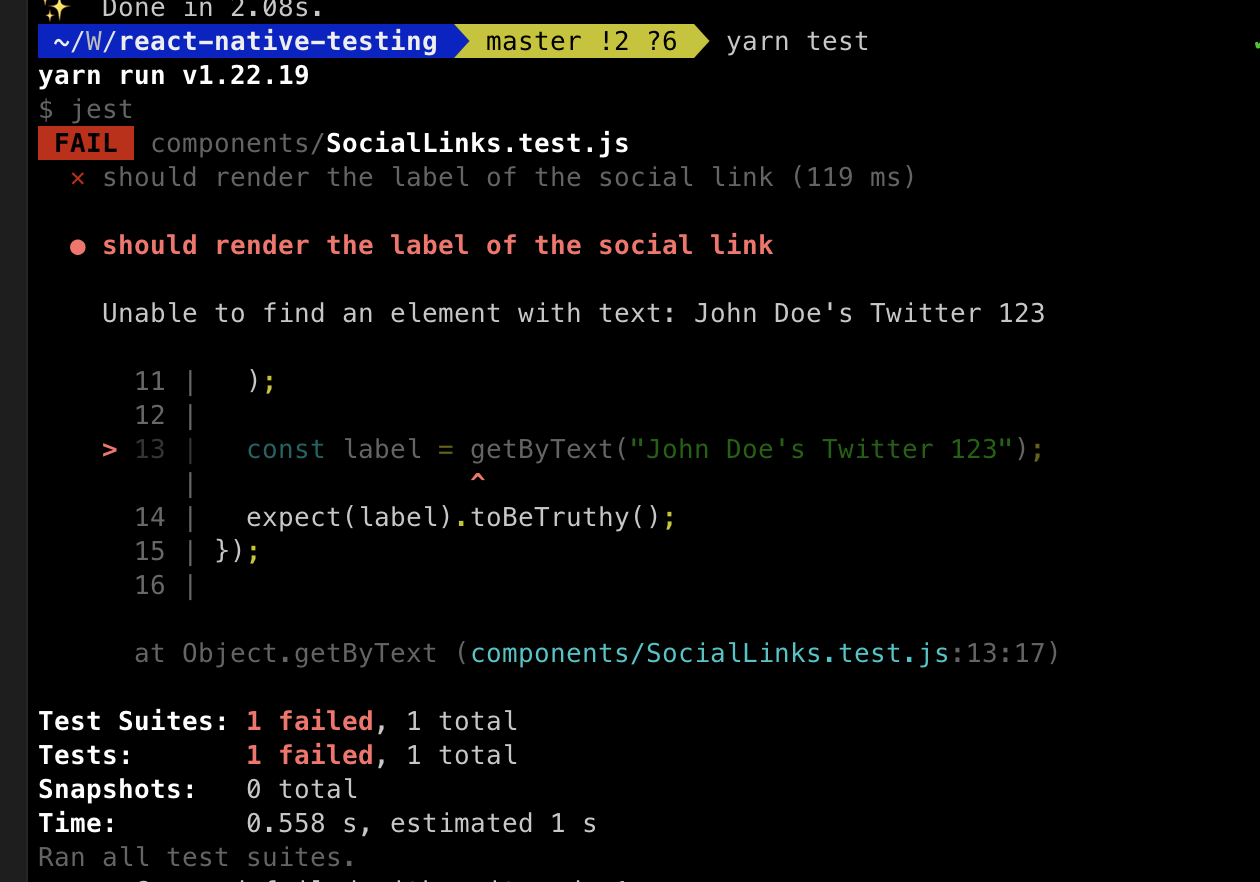
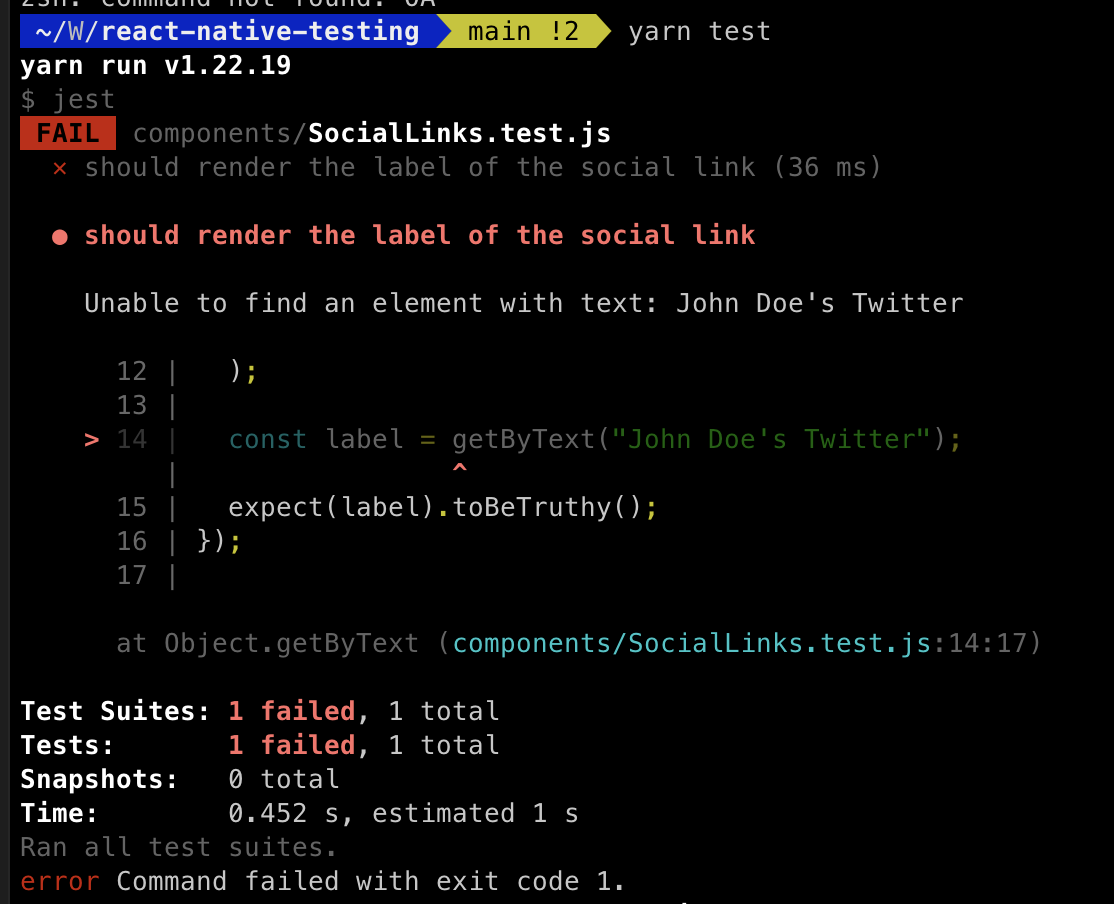
worked on the feedbacks

diff --git a/content/posts/2023-01-16-react-native-testing/index.md b/content/posts/2023-01-16-react-native-testing/index.md
@@ -23,13 +23,7 @@ Testing is an important part of any software development process. It helps you t
 
 ## Setting up the project
 
-As always we will try learning by real life example. So let's create a simple React Native app and then we will add testing to it. We will use expo to create our app. If you don't have expo installed on your machine, you can install it by running the following command:
-
-```bash
-npm install -g expo-cli
-```
-
-Now we can create our app by running the following command:
+As always we will try learning by real life example. So let's create a simple React Native app and then we will add testing to it. We will use expo to create our app.
 
 ```bash
 npx create-expo-app react-native-testing
@@ -54,14 +48,13 @@ We will be using React Native Testing Library to test our React Native app. This
 
 React Native Testing Library (RNTL) requires some other libraries to work. If you don't have them installed, you will get errors. So we will first install the required ones. We need to install the following libraries:
 
-1. react-test-renderer &
+1. react-test-renderer
 2. jest
 
 Run the following commands to install these libraries:
 
 ```bash
-npm install --save-dev react-test-renderer
-npm install --save-dev jest
+npm install --save-dev react-test-renderer jest
 ```
 
 Once those libraries are integrated, we can install React Native Testing Library by running the following command:
@@ -70,7 +63,7 @@ Once those libraries are integrated, we can install React Native Testing Library
 npm install --save-dev @testing-library/react-native
 ```
 
-Next, in order to use addtional React Native-specific jest matchers, we will need `@testing-library/jest-native package`.
+Next, in order to use addtional React Native-specific jest matchers, we will need `@testing-library/jest-native` package.
 
 ```bash
 npm install --save-dev @testing-library/jest-native
@@ -85,7 +78,7 @@ module.exports = {
 };
 ```
 
-Now question is, how do we even run the test in our app? We need to add a script to our `package.json` file. Let's add the following code to the `scripts` section of our `package.json` file:
+Now the question is, how do we even run the test in our app? We need to add a script to our `package.json` file. Let's add the following code to the `scripts` section of our `package.json` file:
 
 ```json
 "scripts": {
@@ -171,7 +164,7 @@ const styles = StyleSheet.create({
 export default Profile;
 ```
 
-and in the `components` folder, Add `SocialLinks.js` and the following code to it:
+Now in the `components` folder, Add `SocialLinks.js` and the following code to it:
 
 ```js
 import React from 'react';
@@ -225,17 +218,18 @@ const styles = StyleSheet.create({
 export default SocialLinks;
 ```
 
+You also need the assets in the `assets` folder. You will be able to get the asssets from this [repo](https://github.com/notJust-dev/react-native-testing)
+
 You should be able to see the following screen in your app now:
 
 ![react-native-testing-preview.png](./images/preview.png)
 
-## Writing the first test
+## Test if the social links' labels are rendered properly
 
 The component that we will be testing is the `<SocialLinks />`.It's always best to plan out the test. As a rule of the best practices, we should test the cases that our users see and interact. Let's dissect our `SocialLinks` component and see what are the cases that our users will see.
 
 1. The user will see the label of the social link.
 2. The user will see the icon of the social link.
-3. The user will see the social link is clickable.
 
 Also what will be some of the interactions / behaviors that our users will do with the component?
 
@@ -283,28 +277,28 @@ You will see the following output:
 
 ![react-native-testing-test-1.png](./images/test-1-pass.png)
 
-It's so satisfying to see the test pass with a green tick. Isn't it? ;) However, it's always a good idea to fail the test as well to see if the test is working or not. Let's change the label of the social link to something else and run the test again. We will see the following output:
+It's so satisfying to see the test pass with a green tick. Isn't it? ;) However, it's always a good idea to fail the test as well to see if the test is working or not. However, let's say a new developer came in and he hardcoded the label as "Twitter" in the component. Let's see what will happen if we run the test again:
 
 ```js
 test('should render the label of the social link', () => {
   const { getByText } = render(
     <SocialLinks
+      label={"John Doe's Twitter"}
       type="twitter"
-      label="John Doe's Twitter"
       link="https://twitter.com/"
     />,
   );
 
-  const label = getByText("John Doe's Twitter 123");
+  const label = getByText("John Doe's Twitter");
   expect(label).toBeTruthy();
 });
 ```
 
 ![react-native-testing-test-1-fail.png](./images/test-1-fail.png)
 
-Why did the test fail? Because in our test function we are expecting the label to be "John Doe's Twitter 123" but in the component we are passing the label as "John Doe's Twitter".
+Why did the test fail? Because in our test function we are expecting the label to be "John Doe's Twitter" but in the component we are having a hardcoded label "Twitter". So the test failed. This is how we can test the first case that the user will see the right label of the social link.
 
-## Testing the second case : The user will see the icon of the social link
+## Test if the social links' icons are rendered properly
 
 Let's now test the second case that the user will see the icon of the social link. Let's add the following code to the test file:
 
@@ -331,7 +325,7 @@ If you run the test now, you will see the following output:
 
 Great, we have now made sure that our SocialLinks component is rendering the label and the icon of the social link.
 
-## Testing the third and fourth case : Clicking on the social link should open the correct link
+## Testing user interactions
 
 Now onto our third & fourth case. We will be testing if users go to twitter.com when they click on the twitter link. Let's add the following code to the test file:
 
@@ -353,7 +347,7 @@ test('should open the twiiter link when the twitter link is pressed', () => {
 });
 ```
 
-Similarly to the previous test cases, let's break down the code. We are using the `fireEvent` method to fire the `press` event on the label. We are then using the `toHaveBeenCalledWith` matcher to check if the `Linking.openURL` method is called with the correct link. If the link is correct, the test will pass. If the link is not correct, the test will fail.
+Similarly to the previous test cases, let's break down the code. We are using the `fireEvent` method to fire the `press` event on the label. We are then using the `toHaveBeenCalledWith` matcher to check if the `Linking.openURL` method is called with the correct link. If the link is correct, the test will pass. If the link is not correct, the test will fail. Here we are using Linking.openURL in our test to imitate the user clicking on the link.
 
 We can do exactly the same thing for the instagram link as well. Let's add the following code to the test file:
 
@@ -389,4 +383,4 @@ You can find the GitHub repository for this article [here](https://github.com/no
 
 We have now properly tested our SocialLinks component. We have made sure that the component is rendering the label and the icon of the social link. We have also made sure that the component is opening the correct link when the user clicks on the social link.
 
-Even though the test cases were fairly simple in this article, you can use the same approach to test more complex components as well. I hope you found this article will help you in your journey of learning React Native testing.
+Even though the test cases were fairly simple in this article, you can use the same approach to test more complex components as well. I hope you enjoyed this aritcle and get a better understanding of how to test your React Native components.
